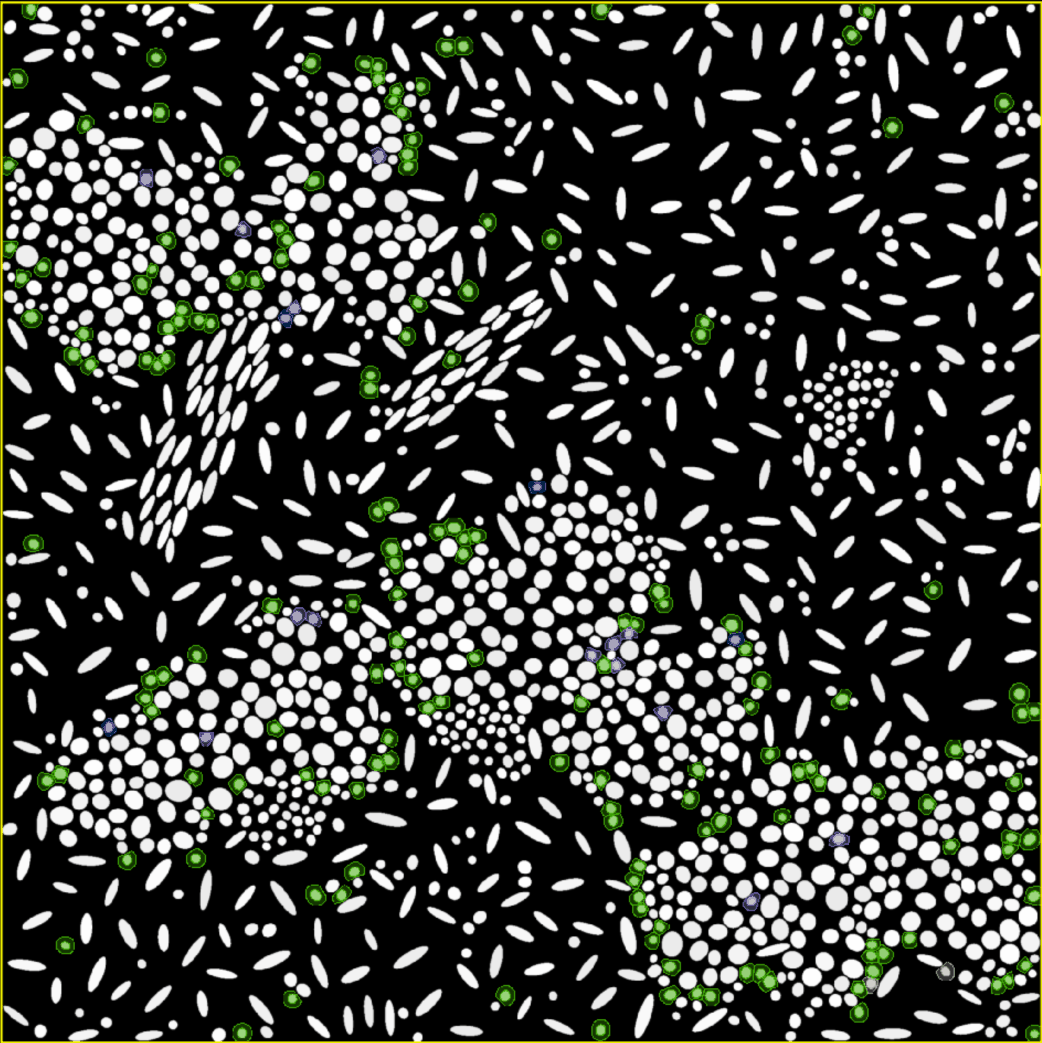
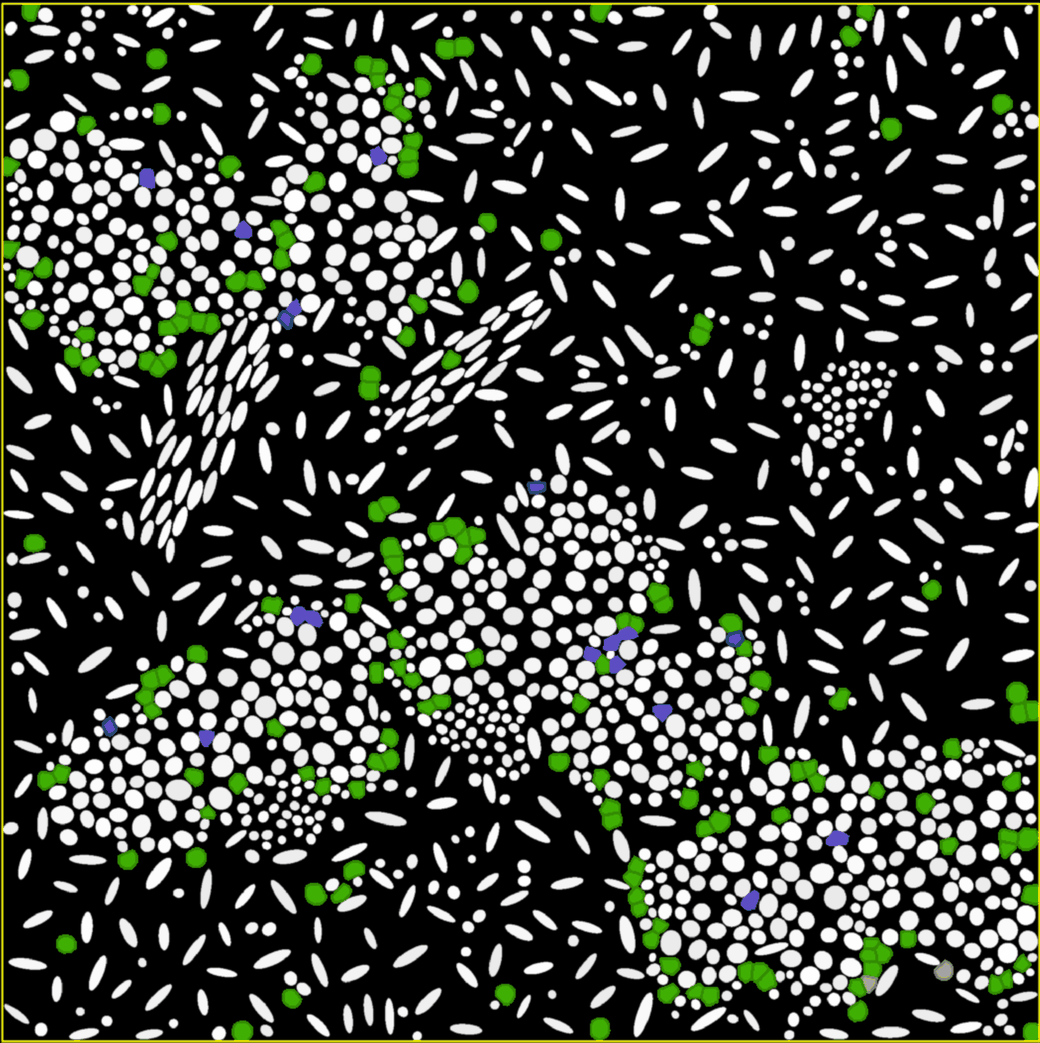
Class Visibility guide: new 0.4.x screenshots, CD8 walkthrough, demo GIF, smaller DAPI image
Claude-Session: https://claude.ai/code/session_011vsVaz6bucybYzteLzjXpH

diff --git a/docs/14-class-visibility.md b/docs/14-class-visibility.md
@@ -41,6 +41,8 @@ This interface is most useful with large numbers of classes, where QuPath's stan
 becomes clunky. If you have never been frustrated trying to show specific objects from the
 Annotations panel, you can skip this one.
 
+<img src="../images/class-visibility/class-visibility-demo.gif" alt="An animation of the Class visibility window, with its options panel hidden, beside the tme_00 image. The PanCK component is checked and the seven classes containing PanCK become ticked and ringed in the classes list while the PanCK tumor cells appear in the viewer. CD3 is then checked as well: under Any the viewer adds the CD3 T cells, 808 objects; switching to All leaves only the 17 cells carrying both PanCK and CD3, then Any is selected again" width="900">
+
 <details markdown="1">
 <summary><b>Install</b> — from the LOCI catalog, then restart QuPath</summary>
 
@@ -149,7 +151,7 @@ only the nuclei and fill the cells in.
 
 <img src="../images/class-visibility/brightness-boxed.png" alt="The QuPath toolbar. The Brightness/Contrast button, a half-filled circle, is outlined in red. Two buttons further along, Show detections and Fill detections, are outlined together in blue" width="900">
 
-<img src="../images/class-visibility/dapi-only.png" alt="The Brightness & contrast window. Its channel list reads DAPI, PanCK, Ki67, aSMA, CD3, CD8, CD20 and CD68; only the DAPI row has its Show check box ticked" width="420">
+<img src="../images/class-visibility/dapi-only.png" alt="The Brightness & contrast window. Its channel list reads DAPI, PanCK, Ki67, aSMA, CD3, CD8, CD20 and CD68; only the DAPI row has its Show check box ticked" width="210">
 
 Every cell is now a solid white shape on black, and a class rule shows as a change of color.
 
@@ -192,40 +194,54 @@ looks like, and it is what a flat class list handles worst.
 ### 6. One component, many classes
 
 In the components list — its header reads **Anything containing these components (7)** — check
-**`CD3`**. Every object whose class contains `CD3` is now visible, and nothing else is. (If
-nothing changed, see [If something looks wrong](#if-something-looks-wrong).)
+**`CD8`**. Every object whose class contains `CD8` is now visible, and nothing else is.
 
-<img src="../images/class-visibility/panel-cd3-checked-with-viewer.png" alt="QuPath with the Class visibility floating window over the lower left of the viewer, on tme_00, with CD3 checked in the components list. In the classes list the rows CD3, CD3 colon CD8, PanCK colon CD3 colon CD8, aSMA colon CD3, CD3 colon CD8 colon CD68 and CD3 colon CD68 each show a grayed-out tick with a blue ring around the check box. Below the components list the options read Any CD3, selected, and All CD3. Active rules reads 9. In the viewer, most cells are plain white outlines and only the CD3-containing cells are drawn with teal and green outlines, scattered through the tissue" width="1000">
+<img src="../images/class-visibility/panel-cd8-checked-with-viewer.png" alt="QuPath with the Class visibility floating window over the lower left of the viewer, on tme_00, with CD8 checked in the components list; the CD8 component row is outlined in red. In the classes list the rows CD3 colon CD8, PanCK colon CD3 colon CD8, CD3 colon CD8 colon CD68, CD8 and aSMA colon CD3 colon CD8 show a grayed-out tick with a blue ring. Active rules reads 5. Above the window, QuPath's own Class list in the Annotations tab is outlined in red: it is set to Hide by default and its eye icon is open only on the CD8-containing classes visible there, CD3 colon CD8 and CD3 colon CD8 colon CD68. In the viewer, most cells are plain white shapes and only the CD8-containing cells, mostly green, are outlined in color" width="1000">
 
-**Now look at the classes list.** All nine classes containing `CD3` (`CD3`, `CD3: CD8`,
-`PanCK: CD3: CD8`, `aSMA: CD3` and five more, some below the fold) show a **grayed-out tick with
-a blue ring** around the check box. The ring means the component rule reaches that class, and
-hovering the row says to change it in the components list. `Active rules` reads 9: the component
-is written as one rule per class it covers. Uncheck `CD3` and the ticks and rings disappear; a
-tick you put there yourself would stay.
+**Now look at the classes list.** The five classes containing `CD8` — `CD3: CD8`,
+`PanCK: CD3: CD8`, `CD3: CD8: CD68`, `CD8` and `aSMA: CD3: CD8`, some below the fold — show a
+**grayed-out tick with a blue ring** around the check box. The ring means the component rule
+reaches that class, and hovering the row says to change it in the components list.
+`Active rules` reads 5: the component is written as one rule per class it covers. Uncheck `CD8`
+and the ticks and rings disappear; a tick you put there yourself would stay.
 
-Now compare two numbers. In the classes list, the `CD3` row's **`Count`** reads 184: cells whose
-class is exactly `CD3`. In the components list, the `CD3` row's **`Total`** reads 386: cells
-carrying `CD3` anywhere in their class.
+**And look at QuPath's own class list**, boxed at the top of the picture on the Annotations
+tab. It has switched to `Hide by default`, and the eye is open on exactly the classes the
+component reached. The panel writes to the same setting as QuPath's own list; it just fills it
+in for you.
 
-<img src="../images/class-visibility/count-vs-total.png" alt="A close-up of the tops of both lists. Left, the classes list: aSMA 396, PanCK 286, CD68 199, CD3 184 with a grayed, ringed tick and the row highlighted, CD3 colon CD8 167 with a grayed, ringed tick. Right, the components list: aSMA 416, CD20 103, CD3 386 checked and highlighted, CD68 221, CD8 189" width="900">
+Now compare two numbers:
+
+<img src="../images/class-visibility/count-vs-total.png" alt="A close-up of the tops of both lists with CD8 checked. Left, the classes list: aSMA 396, PanCK 286, CD68 199, CD3 184, CD3 colon CD8 167 ticked and ringed, down to CD8 2, ticked and ringed and outlined in red. Right, the components list: aSMA 416, CD20 103, CD3 386, CD68 221, CD8 189 checked and outlined in red, Ki67 126, PanCK 439" width="800">
+
+In the classes list, the `CD8` row's **`Count`** reads **2**: cells whose class is exactly
+`CD8`. In the components list, the `CD8` row's **`Total`** reads **189**: cells carrying `CD8`
+anywhere in their class. Almost every CD8 cell in this image is also CD3-positive, so it lives
+in a class like `CD3: CD8`, not in `CD8`.
 
 **That is the difference between the two lists.** A class row is that class and nothing else:
-checking the `CD3` *class* row acts on the 184 cells in the `Count`, not on `CD3: CD8` or
-`PanCK: CD3: CD8`. A component is everything containing it: the 386 in its `Total`.
+checking the `CD8` *class* row would show 2 cells. A component is everything containing it: the
+189 in its `Total`.
 
-Try it with `PanCK`. Uncheck the `CD3` component, then check the **`PanCK` class row**: 286
+Try it with `PanCK`. Uncheck the `CD8` component, then check the **`PanCK` class row**: 286
 cells, the tumor cells positive for PanCK alone. Uncheck it and check the **`PanCK`
-component** instead: 439 cells, now including `PanCK: Ki67`, `PanCK: CD68` and the rest. Uncheck
-it again before step 7.
+component** instead: 439 cells, now including `PanCK: Ki67`, `PanCK: CD68` and the rest — seven
+classes ticked and ringed.
+
+<img src="../images/class-visibility/panel-docked-panck-component.png" alt="QuPath with the Class visibility panel docked as a tab in the analysis pane, its options panel hidden so only the Expand options panel button, the image name and the two stacked lists show. The PanCK component is checked, and in the classes list PanCK, PanCK colon Ki67, PanCK colon CD3 colon CD8, PanCK colon CD68, PanCK colon CD3, PanCK colon aSMA colon CD3 and PanCK colon CD20 each show a grayed-out, ringed tick. Active rules reads 7. The viewer shows the round tumor nests filled in teal and purple, with the stroma plain white" width="900">
+
+*This picture is the panel docked in the analysis pane (**Dock as tab**) with its options hidden
+(**Hide options panel**): the two lists stack, and nothing but the check boxes is left.*
+
+Uncheck `PanCK` again before step 7.
 
 > **To keep the two meanings apart, the panel turns on QuPath's `Exact matches only` setting**
 > the first time you change something. Closing the panel puts your own setting back.
 
 ### 7. `Any` vs `All` — the part with no equivalent
 
-Check a second component, **`CD8`**. Two options below the list now read, each with the number
-of cells it would show:
+Check **`CD3`** and **`CD8`** in the components list. Two options below the list now read, each
+with the number of cells it would show:
 
 - `Any -- CD3, or CD8, or both (388 objects)` — **10 classes**
 - `All -- CD3 and CD8 together (187 objects)` — **4 classes** (`CD3: CD8`, `PanCK: CD3: CD8`,
@@ -234,12 +250,12 @@ of cells it would show:
 You can compare the two before choosing. Neither number appears on any single row: each
 component's `Total` is that component alone.
 
-<img src="../images/class-visibility/any-vs-all-boxed.png" alt="The Class visibility window with CD3 and CD8 both checked in the components list. Below that list, outlined in red, the section Checked components combine as shows two options: Any, CD3 or CD8 or both, 388 objects, which is selected, and All, CD3 and CD8 together, 187 objects. In the classes list ten rows show a grayed-out tick with a blue ring. Active rules reads 10" width="900">
+<img src="../images/class-visibility/any-vs-all-boxed.png" alt="The Class visibility window with CD3 and CD8 both checked in the components list. Below that list, outlined in red, the section Checked components combine as shows two options: Any, CD3 or CD8 or both, 388 objects, which is selected, and All, CD3 and CD8 together, 187 objects. In the classes list ten rows show a grayed-out tick with a blue ring. Active rules reads 10" width="700">
 
 `Any` is selected by default, but the panel remembers whichever you last chose, so glance at
-which option is selected before you read any counts. On `Any`, this image barely changes: you go from
-386 cells to 388 — 187 of the 189 CD8-positive cells are also CD3-positive,
-so CD8 sits almost entirely inside CD3.
+which option is selected before you read any counts. On `Any`, 388 cells show — barely more
+than the 386 that `CD3` reaches on its own, because 187 of the 189 CD8-positive cells are also
+CD3-positive: CD8 sits almost entirely inside CD3.
 
 Now switch to `All`. 201 cells leave the screen, you are looking at the CD8 T cells, and **the
 ticked, ringed rows in the classes list narrow from 10 to 4** — under `All`, only classes
@@ -247,12 +263,12 @@ carrying every checked component are covered.
 
 <div style="display:flex;gap:12px;flex-wrap:wrap;align-items:flex-start;margin:1em 0">
   <figure style="flex:1 1 300px;margin:0">
-    <img src="../images/class-visibility/any-cd3-cd8.png" alt="The tme_00 image with CD3 and CD8 checked and Any selected. Most cells are plain white outlines on black; the visible cells, outlined in teal and green with a few in purple, are scattered along the edges of the round tumor nests and through the stroma" style="width:100%;height:auto">
+    <img src="../images/class-visibility/any-cd3-cd8.png" alt="The tme_00 image with CD3 and CD8 checked and Any selected. Most cells are plain white shapes on black; the visible cells, filled light teal (CD3) and green (CD3 and CD8) with a few blue and purple, are scattered along the edges of the round tumor nests and through the stroma" style="width:100%;height:auto">
     <figcaption><b>Any</b>: every cell carrying CD3 or CD8.</figcaption>
   </figure>
   <figure style="flex:1 1 300px;margin:0">
-    <img src="../images/class-visibility/all-cd3-cd8.png" alt="The same view with All selected instead. The teal outlines are gone; only the green-outlined cells and a few purple ones remain, in the same places along the tumor nests and through the stroma" style="width:100%;height:auto">
-    <figcaption><b>All</b>: only the cells carrying both. The teal CD3-only cells have gone.</figcaption>
+    <img src="../images/class-visibility/all-cd3-cd8.png" alt="The same view with All selected instead. The light teal cells are gone; only the green cells and a few blue and purple ones remain, in the same places along the tumor nests and through the stroma" style="width:100%;height:auto">
+    <figcaption><b>All</b>: only the cells carrying both. The light teal CD3-only cells have gone.</figcaption>
   </figure>
 </div>
 
